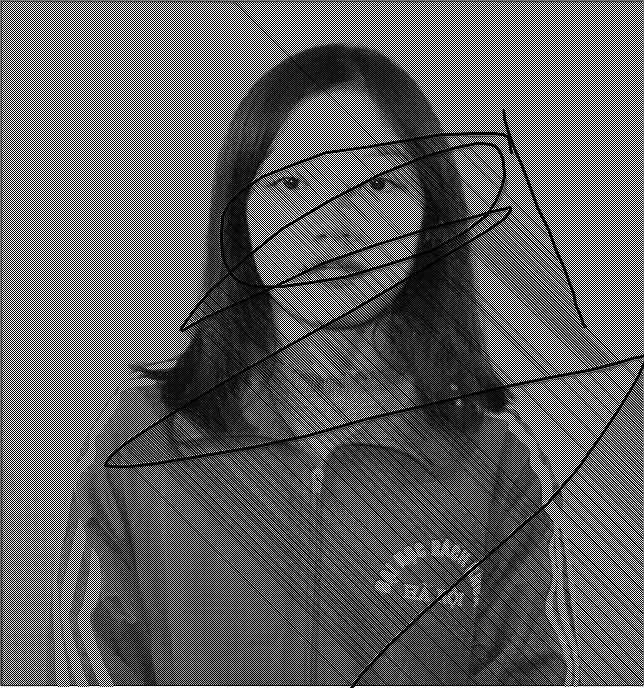
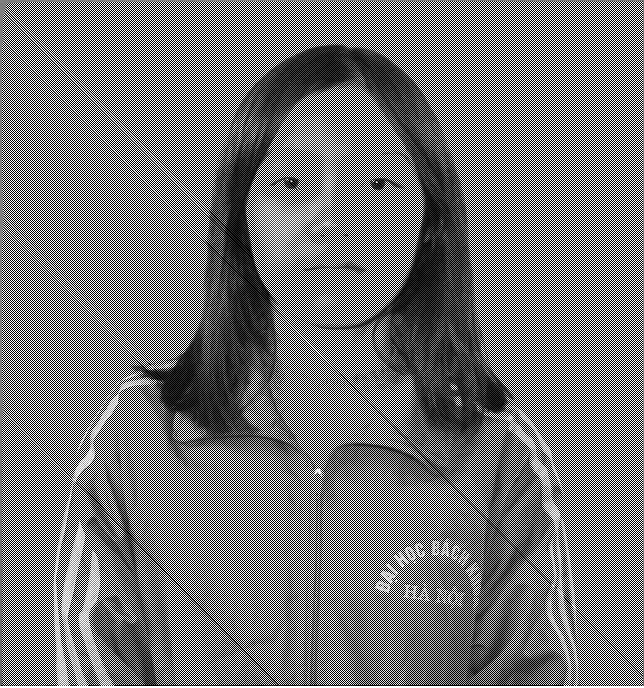
'finish1'

diff --git a/Multimedia/src/multimedia/Multimedia.java b/Multimedia/src/multimedia/Multimedia.java
@@ -12,10 +12,14 @@ import java.awt.Toolkit;
 import java.awt.event.ActionEvent;
 import java.awt.event.ActionListener;
 import java.awt.image.BufferedImage;
+import java.awt.image.BufferedImageOp;
+import java.awt.image.ConvolveOp;
+import java.awt.image.Kernel;
 import java.io.File;
 import java.io.IOException;
 import java.util.logging.Level;
 import java.util.logging.Logger;
+import javax.imageio.ImageIO;
 import javax.swing.BorderFactory;
 import javax.swing.Icon;
 import javax.swing.ImageIcon;
@@ -31,9 +35,10 @@ public class Multimedia {
     JFrame frame;
     JLabel pn1, pn2, diffirent;
     Dimension screenSize;
-    JButton addImgBtn, btnRefresh, btnSharpener, btnScaleGray, btnExcute;
+    JButton addImgBtn, btnRefresh, btnSharpener, btnScaleGray, btnExcute, btnHistogram, btnSharpenerUsingLib;
     ImageIcon addIcon, imgPn1, imgPn2;
     String choosePath, chooseFileName;
+
     int diffirentPercentage = 0;
 
     public Multimedia() {
@@ -85,6 +90,12 @@ public class Multimedia {
         diffirent = new JLabel("difference: " + diffirentPercentage + " pixel");
         diffirent.setBounds(60, (int) (screenSize.getHeight() / 1.5) + 30 + 100 + btnScaleGray.getHeight() + 30, 500, 40);
         diffirent.setFont(new Font("Courier New", Font.ITALIC, 20));
+
+        btnHistogram = new JButton("Normalize");
+        btnHistogram.setBounds(60, (int) (screenSize.getHeight() / 1.5) + 30 + 60 + btnScaleGray.getHeight() + 30, 100, 40);
+
+        btnSharpenerUsingLib = new JButton("SharpenByLib");
+        btnSharpenerUsingLib.setBounds(60 + 100 + 40, (int) (screenSize.getHeight() / 1.5) + 30 + 60 + btnScaleGray.getHeight() + 30, 100 + 40 + 100, 40);
     }
 
     private void addComponent() {
@@ -96,6 +107,8 @@ public class Multimedia {
         frame.add(btnSharpener);
         frame.add(diffirent);
 //        frame.add(btnExcute);
+        frame.add(btnHistogram);
+        frame.add(btnSharpenerUsingLib);
     }
 
     private void addEvent() {
@@ -157,6 +170,56 @@ public class Multimedia {
                 }
             }
         });
+        btnHistogram.addActionListener(new ActionListener() {
+            @Override
+            public void actionPerformed(ActionEvent ae) {
+                if (pn1.getIcon() != null) {
+                    File afterNormalize;
+                    try {
+                        afterNormalize = new Histogram().Excute(choosePath);
+                        imgPn2 = new ImageIcon(afterNormalize.getPath());
+                        imgPn2 = new ImageIcon(imgPn2.getImage().getScaledInstance(pn2.getWidth(), pn2.getHeight(), BufferedImage.SCALE_DEFAULT));
+                        pn2.setIcon(imgPn2);
+                        File Origin = new File(choosePath);
+                        diffirentPercentage = new Compare().Compares(Origin, afterNormalize);
+                        diffirent.setText("difference: " + diffirentPercentage + " pixel");
+                    } catch (IOException ex) {
+                        Logger.getLogger(Multimedia.class.getName()).log(Level.SEVERE, null, ex);
+                    }
+
+                }
+            }
+        });
+        btnSharpenerUsingLib.addActionListener(new ActionListener() {
+            @Override
+            public void actionPerformed(ActionEvent ae) {
+                try {
+                    File originalImage = new File(choosePath);
+                    BufferedImage img = null;
+                    img = ImageIO.read(originalImage);
+                    if (pn1.getIcon() != null) {
+                        Kernel kernel = new Kernel(3, 3,
+                                new float[]{
+                                    0, -1, 0,
+                                    -1, 5, -1,
+                                    0, -1, 0});
+                        BufferedImageOp op = new ConvolveOp(kernel);
+                        img = op.filter(img, null);
+                        File f = new File("data\\" + originalImage.getName() + "_Sharpen.png");
+                        ImageIO.write(img, "png", f);
+                        imgPn2 = new ImageIcon(f.getPath());
+                        imgPn2 = new ImageIcon(imgPn2.getImage().getScaledInstance(pn2.getWidth(), pn2.getHeight(), BufferedImage.SCALE_DEFAULT));
+                        pn2.setIcon(imgPn2);
+                        File Origin = new File(choosePath);
+                        diffirentPercentage = new Compare().Compares(Origin, f);
+                        diffirent.setText("difference: " + diffirentPercentage + " pixel");
+                    }
+
+                } catch (IOException ex) {
+                    Logger.getLogger(Multimedia.class.getName()).log(Level.SEVERE, null, ex);
+                }
+            }
+        });
     }
 
     private void showGUI() {
@@ -165,6 +228,7 @@ public class Multimedia {
 
     public static void main(String[] args) {
         new Multimedia();
+
     }
 
 }

diff --git a/Multimedia/src/multimedia/Histogram.java b/Multimedia/src/multimedia/Histogram.java
@@ -1,0 +1,59 @@
+/*
+ * To change this license header, choose License Headers in Project Properties.
+ * To change this template file, choose Tools | Templates
+ * and open the template in the editor.
+ */
+package multimedia;
+
+import java.awt.image.BufferedImage;
+import java.awt.image.WritableRaster;
+import java.io.File;
+import java.io.IOException;
+import javax.imageio.ImageIO;
+
+/**
+ *
+ * @author Wind
+ */
+public class Histogram {
+
+    public File Excute(String src) throws IOException {
+        File originalImage = new File(src);
+        BufferedImage img = null;
+        img = ImageIO.read(originalImage);
+        BufferedImage nImg = new BufferedImage(img.getWidth(), img.getHeight(),
+                BufferedImage.TYPE_BYTE_GRAY);
+        WritableRaster wr = img.getRaster();
+        WritableRaster er = nImg.getRaster();
+        int totpix = wr.getWidth() * wr.getHeight();
+        int[] histogram = new int[256];
+
+        for (int x = 0; x < wr.getWidth(); x++) {
+            for (int y = 0; y < wr.getHeight(); y++) {
+                histogram[wr.getSample(x, y, 0)]++;
+            }
+        }
+
+        int[] chistogram = new int[256];
+        chistogram[0] = histogram[0];
+        for (int i = 1; i < 256; i++) {
+            chistogram[i] = chistogram[i - 1] + histogram[i];
+        }
+
+        float[] arr = new float[256];
+        for (int i = 0; i < 256; i++) {
+            arr[i] = (float) ((chistogram[i] * 255.0) / (float) totpix);
+        }
+
+        for (int x = 0; x < wr.getWidth(); x++) {
+            for (int y = 0; y < wr.getHeight(); y++) {
+                int nVal = (int) arr[wr.getSample(x, y, 0)];
+                er.setSample(x, y, 0, nVal);
+            }
+        }
+        nImg.setData(er);
+        File f = new File("data\\" + originalImage.getName() + "_Histogram.png");
+        ImageIO.write(nImg, "png", f);
+        return f;
+    }
+}

diff --git a/Multimedia/src/multimedia/Sharpen.java b/Multimedia/src/multimedia/Sharpen.java
@@ -19,7 +19,7 @@ public class Sharpen {
 
     int[][] kernel = {
         {0, -1, 0},
-        {-1, 5, -1},
+        {-1, 4, -1},
         {0, -1, 0},};
     int[][] matrixPixelR = new int[3][3];
     int[][] matrixPixelG = new int[3][3];
